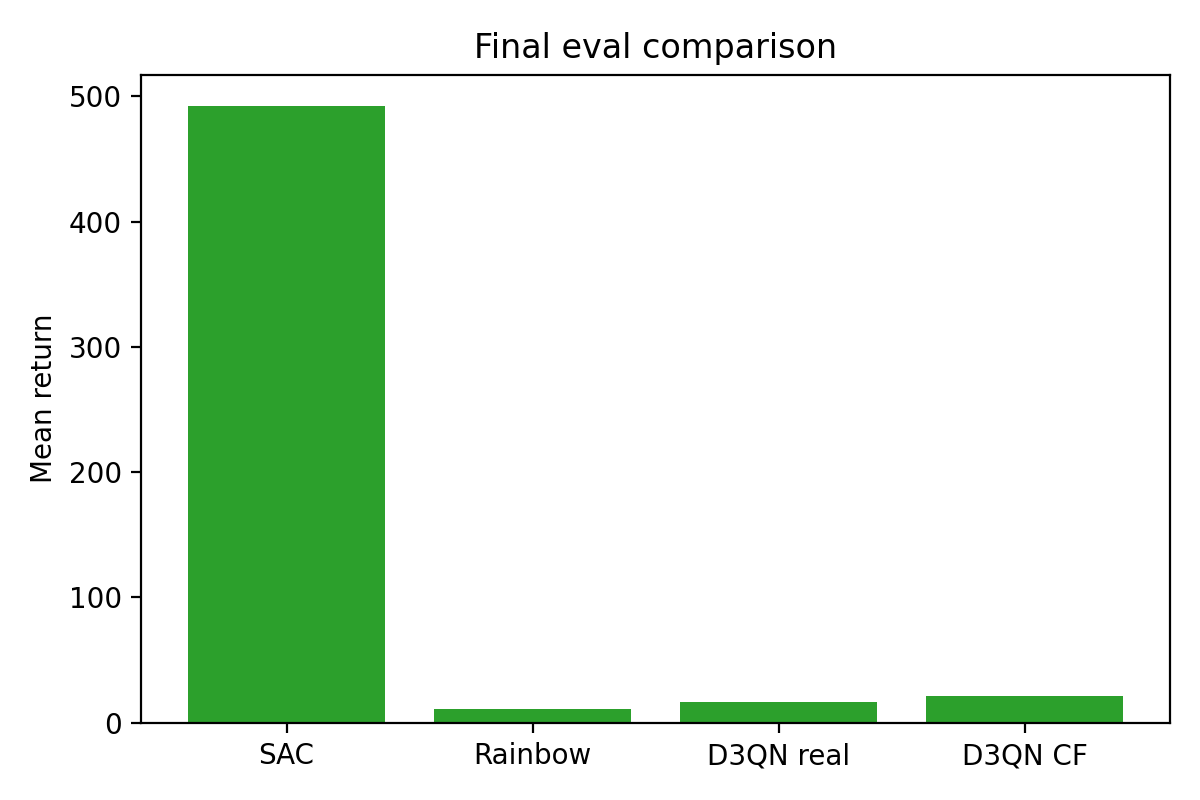
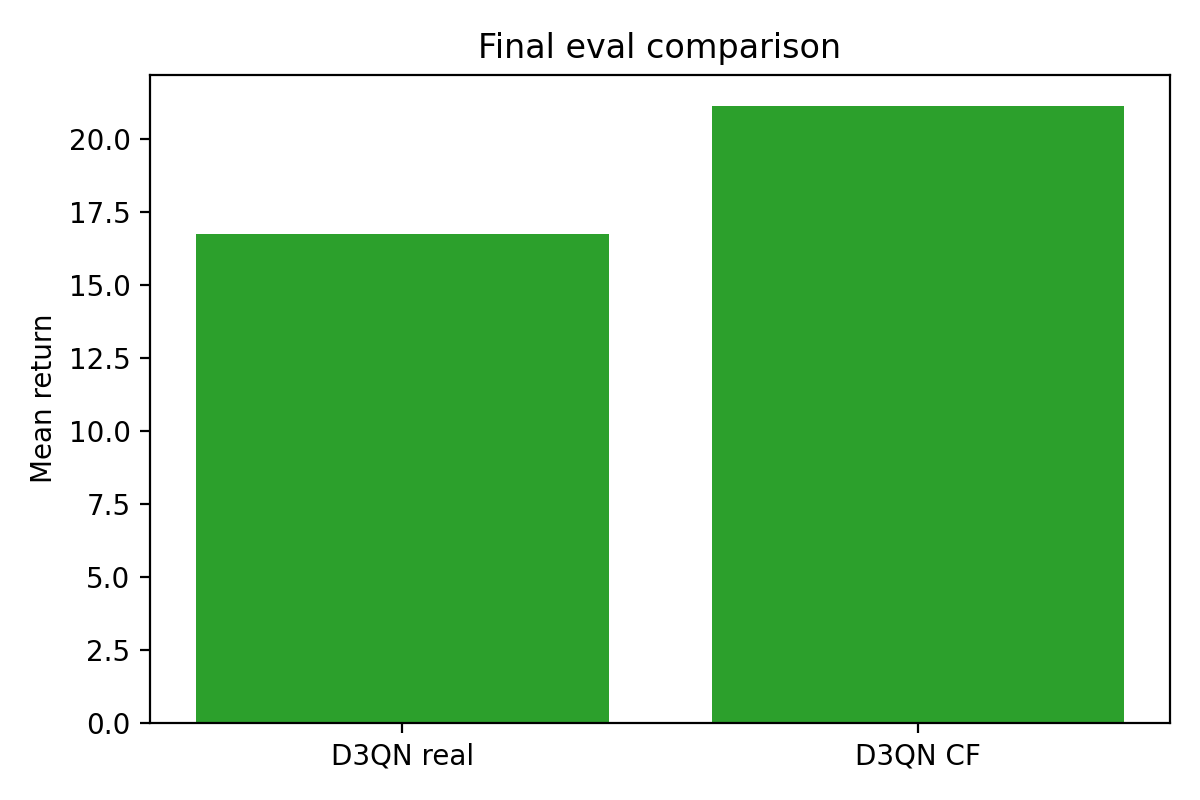
Remove SAC from comparison plot and update README

diff --git a/scripts/plot_results.py b/scripts/plot_results.py
@@ -28,52 +28,6 @@ def save_fig(fig: plt.Figure, out_path: Path) -> None:
     print(f"[saved] {out_path}")
 
 
-def plot_sac(path: Path, out_dir: Path) -> None:
-    data = load_json(path)
-    if not data:
-        return
-    fig, ax = plt.subplots(1, 2, figsize=(10, 4))
-    ax[0].plot(data.get("critic_loss", []), label="critic")
-    ax[0].plot(data.get("actor_loss", []), label="actor")
-    ax[0].set_title("SAC losses")
-    ax[0].set_xlabel("epoch")
-    ax[0].legend()
-
-    evals = data.get("eval_returns") or []
-    if evals:
-        ax[1].plot(
-            [e["epoch"] for e in evals],
-            [e["mean"] for e in evals],
-            marker="o",
-        )
-        ax[1].set_title("SAC eval mean return")
-        ax[1].set_xlabel("epoch")
-        ax[1].set_ylabel("mean return")
-    save_fig(fig, out_dir / "sac_overview.png")
-
-
-def plot_rainbow(path: Path, out_dir: Path) -> None:
-    data = load_json(path)
-    if not data:
-        return
-    fig, ax = plt.subplots(1, 2, figsize=(10, 4))
-    ax[0].plot(data.get("loss", []))
-    ax[0].set_title("Rainbow loss")
-    ax[0].set_xlabel("epoch")
-
-    evals = data.get("eval_returns") or []
-    if evals:
-        ax[1].plot(
-            [e["epoch"] for e in evals],
-            [e["mean"] for e in evals],
-            marker="o",
-        )
-        ax[1].set_title("Rainbow eval mean return")
-        ax[1].set_xlabel("epoch")
-        ax[1].set_ylabel("mean return")
-    save_fig(fig, out_dir / "rainbow_overview.png")
-
-
 def plot_d3qn(real_path: Path, cf_path: Path, out_dir: Path) -> None:
     real = load_json(real_path) or {}
     cf = load_json(cf_path) or {}
@@ -163,18 +117,6 @@ def build_parser() -> argparse.ArgumentParser:
         formatter_class=argparse.ArgumentDefaultsHelpFormatter,
     )
     parser.add_argument(
-        "--sac-metrics",
-        type=Path,
-        default=Path("results/cartpole/sac/metrics.json"),
-        help="Path to SAC metrics.json.",
-    )
-    parser.add_argument(
-        "--rainbow-metrics",
-        type=Path,
-        default=Path("results/cartpole/rainbow/metrics.json"),
-        help="Path to Rainbow metrics.json.",
-    )
-    parser.add_argument(
         "--d3qn-real",
         type=Path,
         default=Path("results/cartpole/d3qn_real/metrics.json"),
@@ -204,12 +146,8 @@ def main() -> None:
     args = build_parser().parse_args()
     out_dir = args.output_dir
 
-    plot_sac(args.sac_metrics, out_dir)
-    plot_rainbow(args.rainbow_metrics, out_dir)
     plot_d3qn(args.d3qn_real, args.d3qn_cf, out_dir)
     overrides: Dict[str, Path] = {
-        "SAC": Path("results/eval/sac/20251208-003308/sac.json"),
-        "Rainbow": Path("results/eval/rainbow/20251208-003300/rainbow.json"),
         "D3QN real": Path("results/eval/d3qn/20251208-003243/d3qn.json"),
         "D3QN CF": Path("results/eval/d3qn/20251208-003251/d3qn.json"),
     }
@@ -222,8 +160,6 @@ def main() -> None:
             overrides[name.strip()] = Path(path_str.strip())
     plot_bar_comparison(
         {
-            "SAC": args.sac_metrics,
-            "Rainbow": args.rainbow_metrics,
             "D3QN real": args.d3qn_real,
             "D3QN CF": args.d3qn_cf,
         },

diff --git a/README.md b/README.md
@@ -44,7 +44,6 @@ python scripts/infer.py --algo d3qn --model-path results/cartpole/d3qn_cf/202512
 ## Key Results (50-episode evals)
 | Model | Clean mean ± std | CTRL noisy mean ± std | References |
 |---|---|---|---|
-| SAC (offline) | 492.6 ± 33.3 | n/a | `results/eval/sac/20251208-003308/sac.json` |
 | D3QN real-only | 34.4 ± 22.3 | 16.7 ± 9.2 | `results/eval/d3qn/20251208-011544/d3qn.json`, `results/eval/d3qn/20251208-011553/d3qn.json` |
 | D3QN CF (0.25) | 52.4 ± 25.6 | 18.6 ± 10.7 | `results/eval/d3qn/20251208-030337/d3qn.json`, `results/eval/d3qn/20251208-030347/d3qn.json` |
 | D3QN CF (0.10) | 51.3 ± 26.6 | 19.1 ± 12.6 | `results/eval/d3qn/20251208-030839/d3qn.json`, `results/eval/d3qn/20251208-030846/d3qn.json` |
